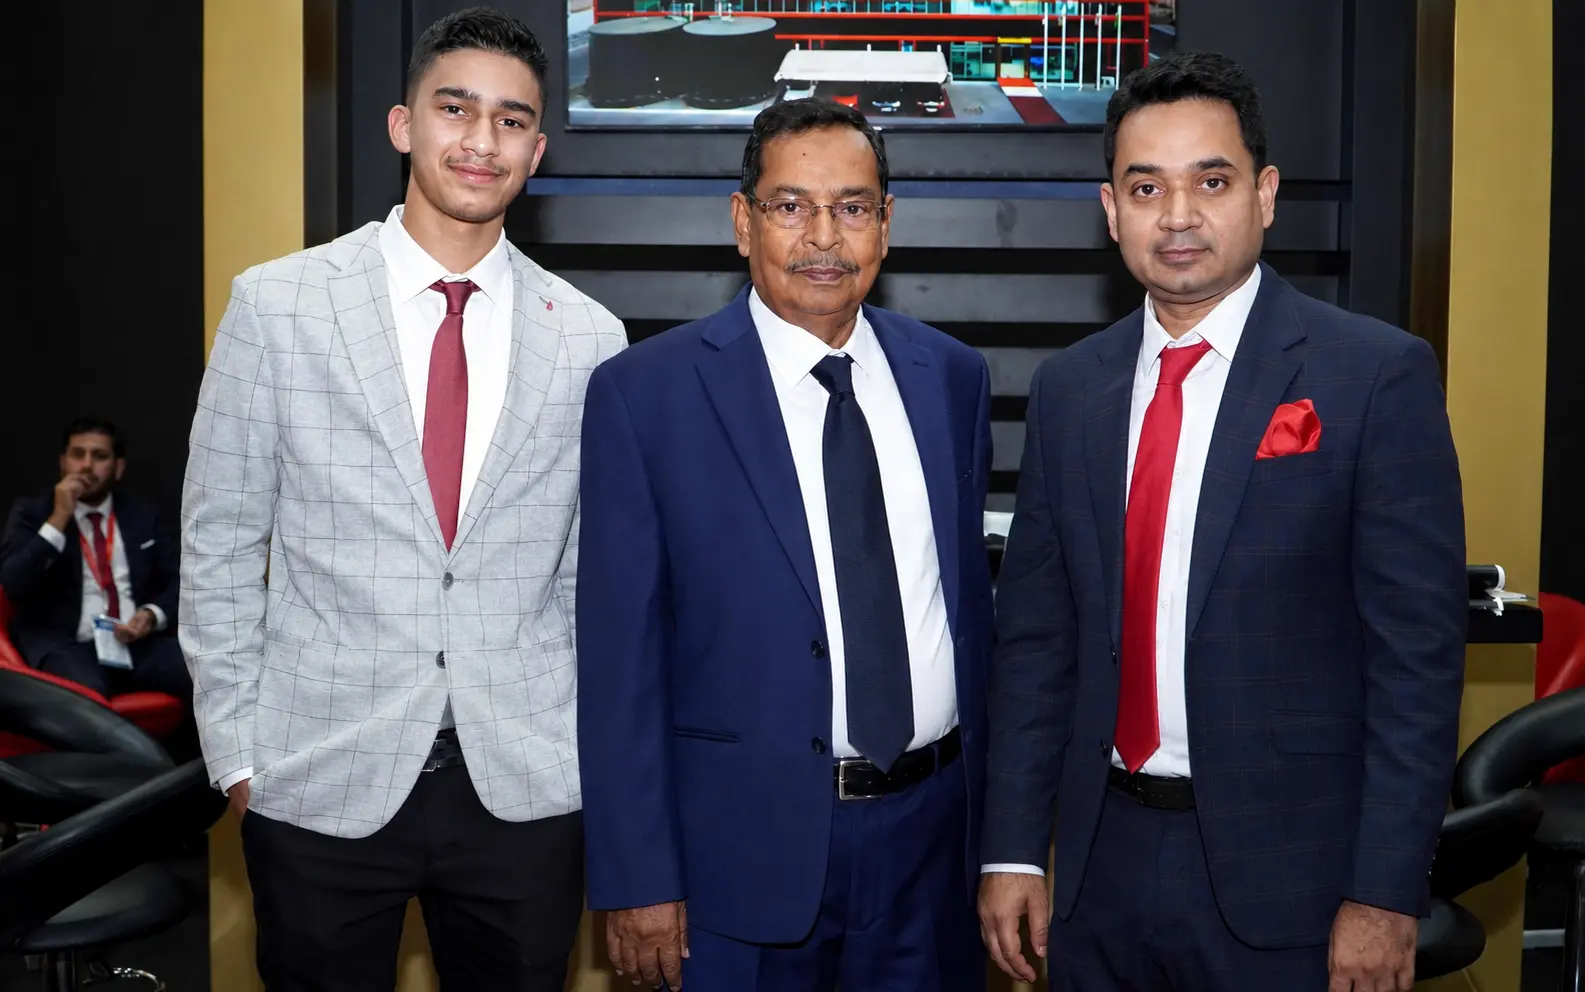
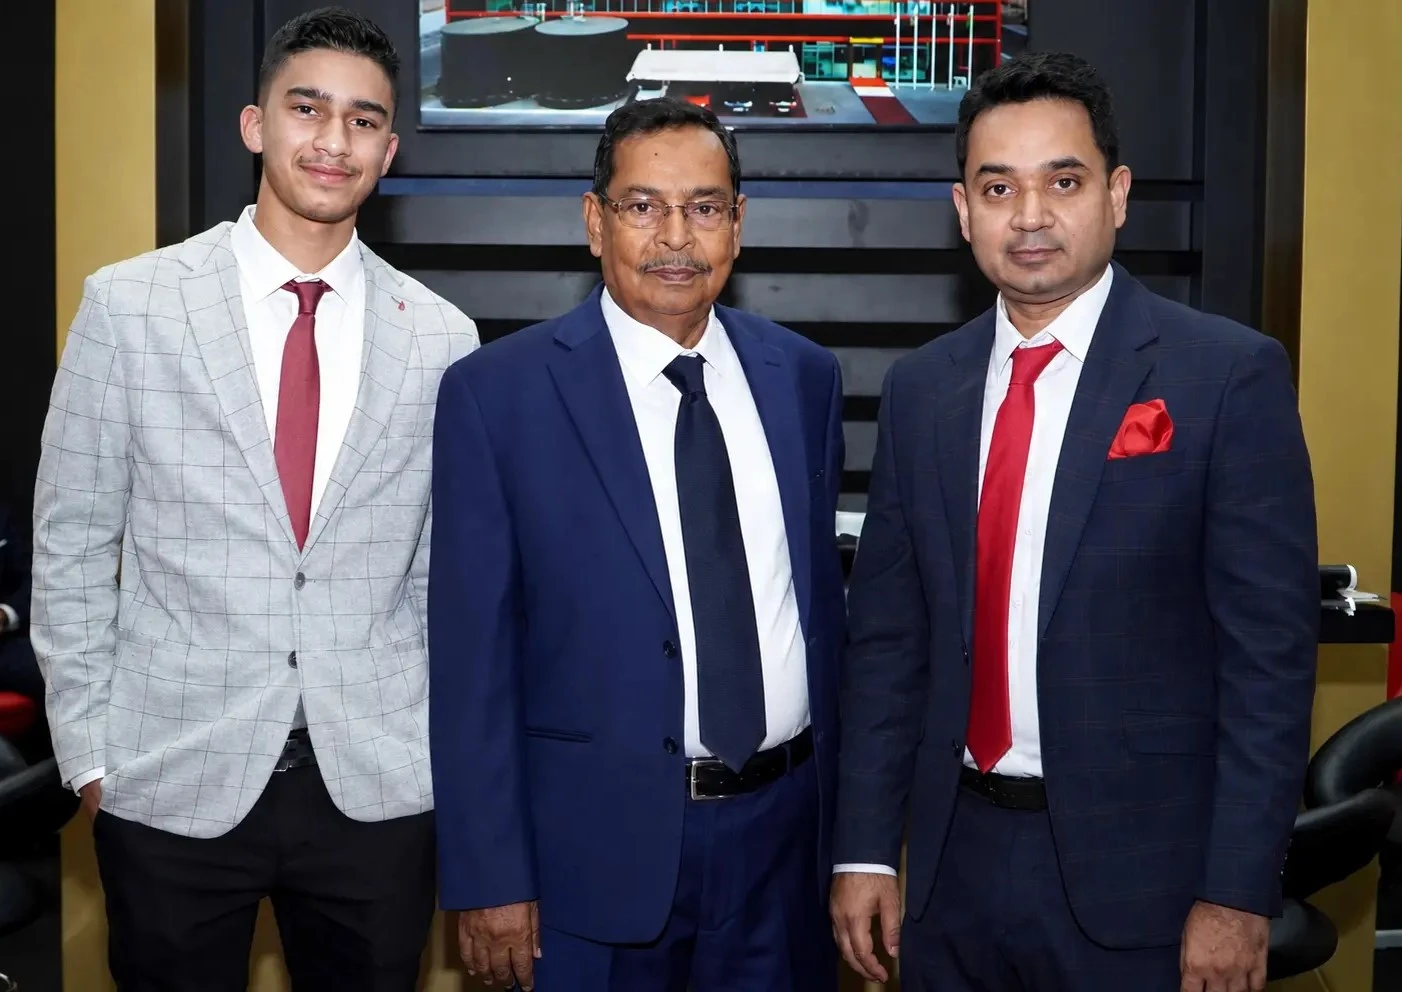
Home: update About Us team photo with cleaner portrait
Swap in the tighter, more professional team photo and update the image
dimensions (1402x992) to avoid layout shift.

Claude-Session: https://claude.ai/code/session_01NJCgckGgyCvcr8WkB6aKnY

diff --git a/app/page.tsx b/app/page.tsx
@@ -275,8 +275,8 @@ export default function HomePage() {
               {/* eslint-disable-next-line @next/next/no-img-element */}
               <img
                 src="/images/legacy.webp"
-                alt="The team behind Civic Tobacco Machinery at an international tobacco machinery exhibition"
-                width={1585}
+                alt="The family team behind Civic Tobacco Machinery"
+                width={1402}
                 height={992}
                 className="h-full w-full object-cover"
                 loading="lazy"
